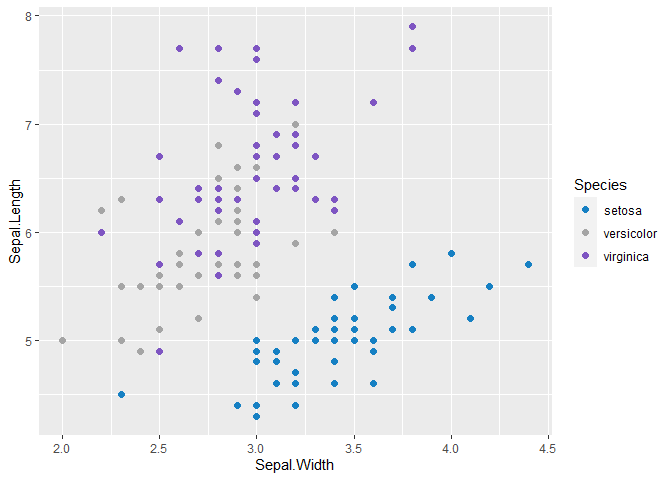
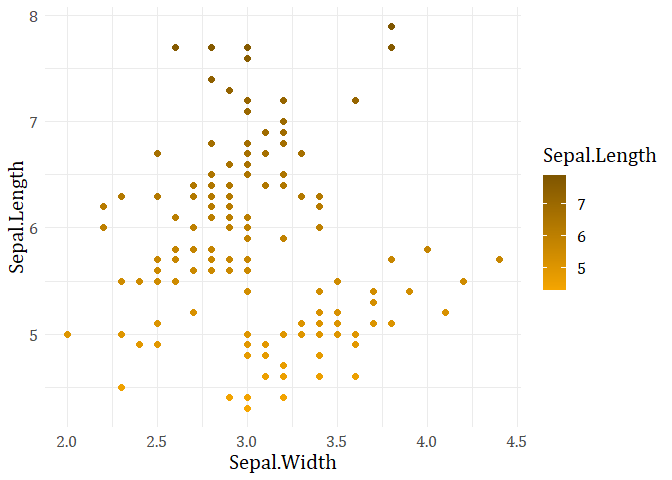
change theme of charts

diff --git a/README.md b/README.md
@@ -17,6 +17,32 @@ with the Missouri Historical Society.
 Screenshot from <https://mohistory.org/society> :
 <img src="C:/Users/BSHALLOW/Documents/R/adhoc_personal/packages/mhscales/inst/extdata/mhs-colors.PNG" width="75%" />
 
+Load packages, set theme:
+
+``` r
+library(ggplot2)
+library(mhscales)
+library(dplyr)
+#> Warning: package 'dplyr' was built under R version 3.5.3
+#> 
+#> Attaching package: 'dplyr'
+#> The following objects are masked from 'package:stats':
+#> 
+#>     filter, lag
+#> The following objects are masked from 'package:base':
+#> 
+#>     intersect, setdiff, setequal, union
+library(extrafont)
+#> Warning: package 'extrafont' was built under R version 3.5.2
+#> Registering fonts with R
+# extrafont::font_import()
+# loadfonts(device = "win")
+
+theme_set(theme_minimal()+
+  theme(text = element_text(size = 16, family = "Cambria"))
+)
+```
+
 ## Installation
 
 You can install these functions from github:
@@ -73,15 +99,12 @@ mhscales::mhs_palettes
 You can set as continuous scales:
 
 ``` r
-library(ggplot2)
-library(mhscales)
-
 ggplot(iris, aes(Sepal.Width, Sepal.Length, color = Sepal.Length)) +
  geom_point(size = 2) +
  scale_color_mhs(palette = "smm", discrete = FALSE)
 ```
 
-<img src="man/figures/README-unnamed-chunk-3-1.png" width="100%" />
+<img src="man/figures/README-unnamed-chunk-4-1.png" width="100%" />
 
 As discrete scales:
 
@@ -91,21 +114,21 @@ ggplot(iris, aes(Sepal.Width, Sepal.Length, color = Species)) +
  scale_color_mhs(palette = "mhs_mhm", discrete = TRUE)
 ```
 
-<img src="man/figures/README-unnamed-chunk-4-1.png" width="100%" />
+<img src="man/figures/README-unnamed-chunk-5-1.png" width="100%" />
 
 Equivalent functions exist for the fill aesthetic:
 
 ``` r
-library(dplyr)
-
 iris %>% 
   filter(Sepal.Length < 6) %>% 
   ggplot(aes(x = Species, fill = Species)) +
   geom_bar()+
-  scale_fill_mhs(palette = "mhs_mhm", discrete = TRUE)
+  scale_fill_mhs(palette = "mhs_mhm", discrete = TRUE)+ 
+  theme(panel.grid.major.x = element_blank(),
+        panel.grid.minor.y = element_blank())
 ```
 
-<img src="man/figures/README-unnamed-chunk-5-1.png" width="100%" />
+<img src="man/figures/README-unnamed-chunk-6-1.png" width="100%" />
 
 ``` r
 ggplot(iris, aes(x = Sepal.Length, fill = ..count..)) +
@@ -115,4 +138,4 @@ ggplot(iris, aes(x = Sepal.Length, fill = ..count..)) +
 #> `stat_bin()` using `bins = 30`. Pick better value with `binwidth`.
 ```
 
-<img src="man/figures/README-unnamed-chunk-6-1.png" width="100%" />
+<img src="man/figures/README-unnamed-chunk-7-1.png" width="100%" />
